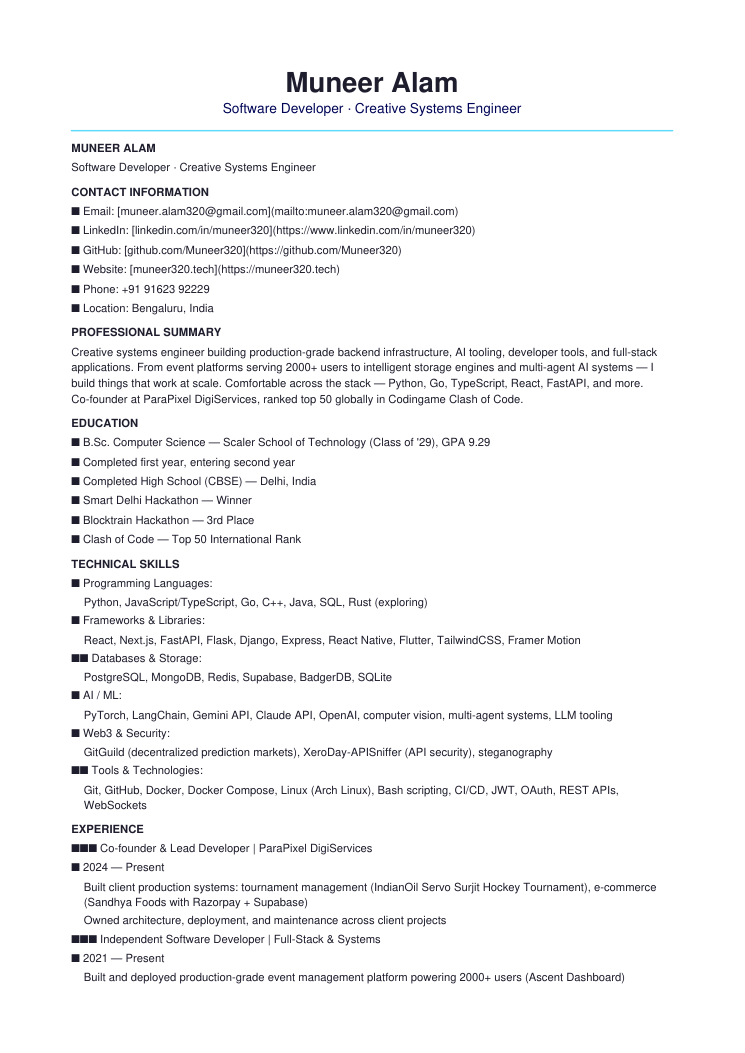
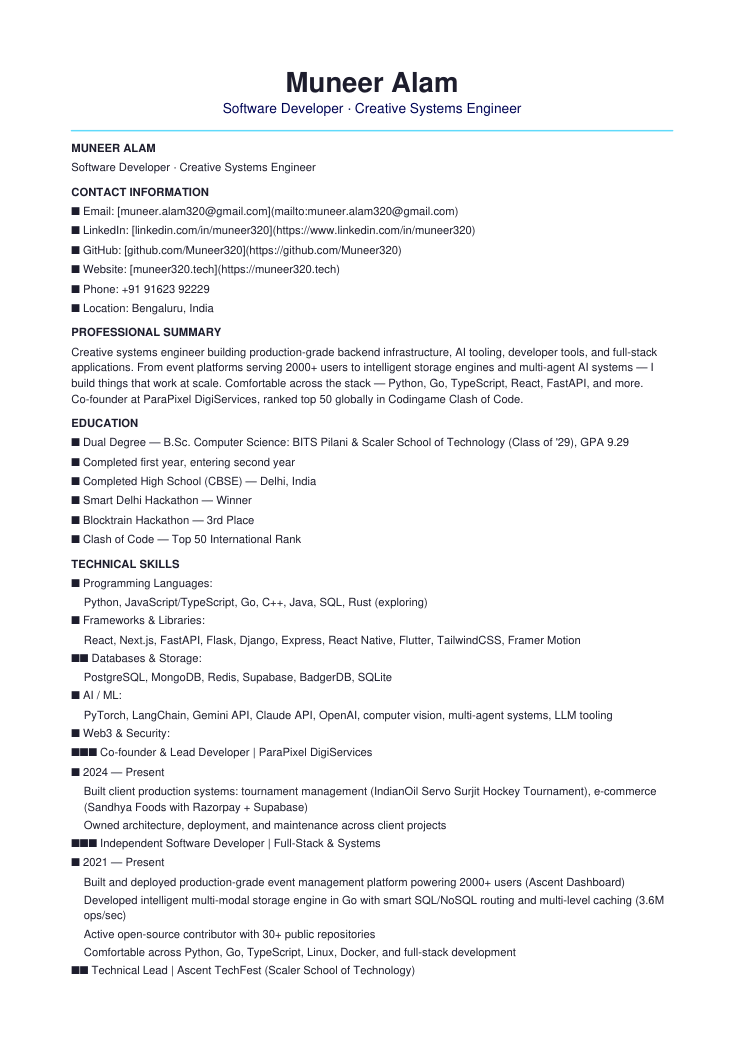
fix(v3): prune experimental projects, add BITS Pilani dual degree (#15)
Projects removed (not production-ready): LNX, teams-clone,
XeroDay-APISniffer, MessageInPicture, Abstracta2.0, Chess.
Kept recent real work: codelines, exHacker, GitGuild, receipt-reader,
Rinse, Telegram-Expence-Tracker + all client/production projects.
File system (directory_structure.json + PROJECT_INFO dirs) synced.

Education: 'BITS Pilani & Scaler School of Technology' dual degree
across portfolioData, CV.md, CV.pdf, CV.png, Muneer Resume.pdf,
Cover_Letter.txt, About app, JSON-LD.

Tests: 33 passing (updated assertions). Build clean.

Changed region(s): [[0.0926, 0.699, 0.8953, 0.9421], [0.1235, 0.3951, 0.8336, 0.4255], [0.6792, 0.9117, 0.8336, 0.9421]]

diff --git a/frontend/src/data/portfolioData.js b/frontend/src/data/portfolioData.js
@@ -22,7 +22,7 @@ Comfortable across the stack — Python, Go, TypeScript, React, FastAPI, and mor
 
 Co-founder at ParaPixel DigiServices · Arch Linux + Hyprland daily driver · ranked top 50 globally in Codingame Clash of Code.`,
 
-  education: `🎓 B.Sc. Computer Science — Scaler School of Technology (Class of '29)
+  education: `🎓 Dual Degree — B.Sc. Computer Science: BITS Pilani & Scaler School of Technology (Class of '29)
 📊 GPA: 9.29
 💻 Completed first year, entering second year
 🏫 Completed High School (CBSE) — Delhi, India
@@ -43,7 +43,6 @@ Co-founder at ParaPixel DigiServices · Arch Linux + Hyprland daily driver · ra
 • PyTorch, LangChain, Gemini API, Claude API, OpenAI, computer vision, multi-agent systems, LLM tooling
 
 🌐 Web3 & Security:
-• GitGuild (decentralized prediction markets), XeroDay-APISniffer (API security), steganography
 
 ☁ Tools & Technologies:
 • Git, GitHub, Docker, Docker Compose, Linux (Arch Linux), Bash scripting, CI/CD, JWT, OAuth, REST APIs, WebSockets`,
@@ -120,11 +119,6 @@ Co-founder at ParaPixel DigiServices · Arch Linux + Hyprland daily driver · ra
 • Tech: Python, concurrent processing, CLI
 • GitHub: [codelines](https://github.com/Muneer320/codelines)
 
-🛡 XeroDay-APISniffer
-• Modular toolkit for scanning publicly available GitHub APIs for security insights
-• Tech: Python, GitHub API
-• GitHub: [XeroDay-APISniffer](https://github.com/Muneer320/XeroDay-APISniffer)
-
 🏑 Surjit Hockey Tournament
 • Full-stack tournament management for IndianOil Servo Surjit Hockey Tournament (Grade-I)
 • Tech: FastAPI, React 19, MySQL, Tailwind CSS 4, Framer Motion
@@ -148,30 +142,10 @@ Co-founder at ParaPixel DigiServices · Arch Linux + Hyprland daily driver · ra
 • Tech: Python, multi-agent AI orchestration
 • GitHub: [exHacker](https://github.com/Muneer320/exHacker)
 
-🧪 teams-clone
-• Realistic Microsoft Teams clone built as a reinforcement learning environment
-• Tech: JavaScript, RL environment design
-• GitHub: [teams-clone](https://github.com/Muneer320/teams-clone)
-
 ⛓ GitGuild
 • Decentralized prediction markets for GitHub pull requests — trade tokens on PR outcomes
 • Tech: TypeScript, Web3 concepts
 • GitHub: [GitGuild](https://github.com/Muneer320/GitGuild)
-
-💀 LNX
-• The Worst Programming Language Ever — a deliberately terrible language, built for fun
-• Tech: Python, language design
-• GitHub: [LNX](https://github.com/Muneer320/LNX)
-
-🖼 Abstracta2.0
-• Reimagines images as abstract artwork using evolving shapes and smart rendering
-• Tech: Python, computer vision, generative art
-• GitHub: [Abstracta2.0](https://github.com/Muneer320/Abstracta2.0)
-
-🔍 MessageInPicture
-• Steganography — hide and extract messages via image binary manipulation
-• Tech: Python, image processing
-• GitHub: [MessageInPicture](https://github.com/Muneer320/MessageInPicture)
 
 🧪 ChemPath
 • Student-friendly molecular pathway finder — like Google Maps for chemistry
@@ -226,10 +200,10 @@ Co-founder at ParaPixel DigiServices · Arch Linux + Hyprland daily driver · ra
 • Tech: JavaScript, responsive design
 • GitHub: [Class-Timetable](https://github.com/Muneer320/Class-Timetable)
 
-♟ Chess
-• Chess game implementation in Python
-• Tech: Python
-• GitHub: [Chess](https://github.com/Muneer320/Chess)`,
+📱 Telegram Expense Tracker
+• Telegram bot for tracking personal expenses — log spending, categorize, analyze
+• Tech: Python, Telegram Bot API, SQLite
+• GitHub: [Telegram-Expence-Tracker](https://github.com/Muneer320/Telegram-Expence-Tracker)`,
 
   achievements: `🏆 Smart Delhi Hackathon — Winner
 🥉 Blocktrain Hackathon — 3rd Place

diff --git a/frontend/src/data/portfolioData.test.js b/frontend/src/data/portfolioData.test.js
@@ -12,7 +12,8 @@ describe("portfolioData", () => {
     expect(portfolioData.bio.length).toBeGreaterThan(50);
   });
 
-  test("education contains institutions", () => {
+  test("education contains dual degree", () => {
+    expect(portfolioData.education).toContain("BITS Pilani");
     expect(portfolioData.education).toContain("Scaler School of Technology");
     expect(portfolioData.education).toContain("9.29");
     expect(portfolioData.education.length).toBeGreaterThan(20);
@@ -46,7 +47,9 @@ describe("portfolioData", () => {
     expect(portfolioData.projects).toContain("BOOP");
     expect(portfolioData.projects).toContain("codelines");
     expect(portfolioData.projects).toContain("GitGuild");
-    expect(portfolioData.projects).toContain("LNX");
+    expect(portfolioData.projects).toContain("exHacker");
+    expect(portfolioData.projects).not.toContain("LNX");
+    expect(portfolioData.projects).not.toContain("teams-clone");
     expect(portfolioData.projects.length).toBeGreaterThan(100);
   });
 

diff --git a/frontend/src/pocket/apps/AboutApp.js b/frontend/src/pocket/apps/AboutApp.js
@@ -42,7 +42,7 @@ export default function AboutApp() {
       <div className="pocket-about-section">
         <h3 className="pocket-about-section-title">Quick Facts</h3>
         <ul className="pocket-about-facts">
-          <li>🎓 Scaler School of Technology · Class of '29 · GPA 9.29</li>
+          <li>🎓 BITS Pilani &amp; Scaler School of Technology · Class of '29 · GPA 9.29</li>
           <li>🏆 Smart Delhi Hackathon Winner · Blocktrain 3rd Place</li>
           <li>🐧 Arch Linux + Hyprland daily driver</li>
           <li>🚀 Co-founder @ ParaPixel DigiServices</li>

diff --git a/frontend/public/index.html b/frontend/public/index.html
@@ -50,7 +50,7 @@
             "https://muneer320.tech"
           ],
           "knowsAbout": ["React", "Python", "Go", "FastAPI", "PostgreSQL", "Docker", "TypeScript", "Linux", "AI", "Multi-Agent Systems", "Computer Vision", "Web3"],
-          "alumniOf": ["Scaler School of Technology"],
+          "alumniOf": ["BITS Pilani", "Scaler School of Technology"],
           "address": {
             "@type": "PostalAddress",
             "addressLocality": "Bengaluru",

diff --git a/frontend/public/home/muneer/Documents/CV.md b/frontend/public/home/muneer/Documents/CV.md
@@ -19,7 +19,7 @@ Creative systems engineer building production-grade backend infrastructure, AI t
 ---
 
 **EDUCATION**
-🎓 B.Sc. Computer Science — Scaler School of Technology (Class of '29), GPA 9.29
+🎓 Dual Degree — B.Sc. Computer Science: BITS Pilani & Scaler School of Technology (Class of '29), GPA 9.29
 💻 Completed first year, entering second year
 🏫 Completed High School (CBSE) — Delhi, India
 🏆 Smart Delhi Hackathon — Winner
@@ -43,14 +43,7 @@ Creative systems engineer building production-grade backend infrastructure, AI t
 • PyTorch, LangChain, Gemini API, Claude API, OpenAI, computer vision, multi-agent systems, LLM tooling
 
 🌐 Web3 & Security:
-• GitGuild (decentralized prediction markets), XeroDay-APISniffer (API security), steganography
 
-☁ Tools & Technologies:
-• Git, GitHub, Docker, Docker Compose, Linux (Arch Linux), Bash scripting, CI/CD, JWT, OAuth, REST APIs, WebSockets
-
----
-
-**EXPERIENCE**
 👨💻 Co-founder & Lead Developer | ParaPixel DigiServices
 📅 2024 — Present
 • Built client production systems: tournament management (IndianOil Servo Surjit Hockey Tournament), e-commerce (Sandhya Foods with Razorpay + Supabase)
@@ -95,11 +88,6 @@ Blazing-fast parallel Lines of Code counter with beautiful terminal output
 Tech: Python, concurrent processing, CLI
 GitHub: [codelines](https://github.com/Muneer320/codelines)
 
-🛡 **XeroDay-APISniffer**
-Modular toolkit for scanning publicly available GitHub APIs for security insights
-Tech: Python, GitHub API
-GitHub: [XeroDay-APISniffer](https://github.com/Muneer320/XeroDay-APISniffer)
-
 🏑 **Surjit Hockey Tournament**
 Full-stack tournament management for IndianOil Servo Surjit Hockey Tournament (Grade-I)
 Tech: FastAPI, React 19, MySQL, Tailwind CSS 4, Framer Motion
@@ -120,30 +108,10 @@ From idea to production-ready project blueprint in under 30 seconds — multi-ag
 Tech: Python, multi-agent AI orchestration
 GitHub: [exHacker](https://github.com/Muneer320/exHacker)
 
-🧪 **teams-clone**
-Realistic Microsoft Teams clone built as a reinforcement learning environment
-Tech: JavaScript, RL environment design
-GitHub: [teams-clone](https://github.com/Muneer320/teams-clone)
-
 ⛓ **GitGuild**
 Decentralized prediction markets for GitHub pull requests — trade tokens on PR outcomes
 Tech: TypeScript, Web3 concepts
 GitHub: [GitGuild](https://github.com/Muneer320/GitGuild)
-
-💀 **LNX**
-The Worst Programming Language Ever — a deliberately terrible language, built for fun
-Tech: Python, language design
-GitHub: [LNX](https://github.com/Muneer320/LNX)
-
-🖼 **Abstracta2.0**
-Reimagines images as abstract artwork using evolving shapes and smart rendering
-Tech: Python, computer vision, generative art
-GitHub: [Abstracta2.0](https://github.com/Muneer320/Abstracta2.0)
-
-🔍 **MessageInPicture**
-Steganography — hide and extract messages via image binary manipulation
-Tech: Python, image processing
-GitHub: [MessageInPicture](https://github.com/Muneer320/MessageInPicture)
 
 🧪 **ChemPath**
 Student-friendly molecular pathway finder — like Google Maps for chemistry
